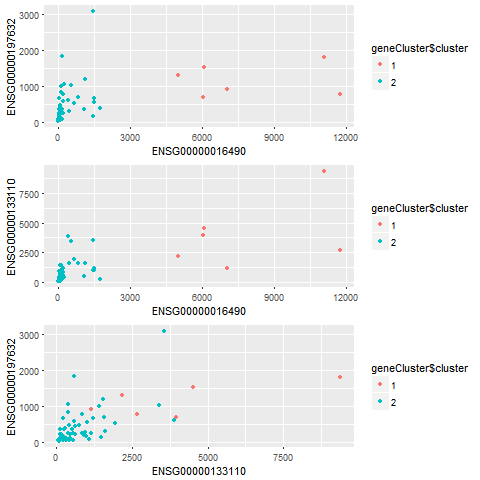
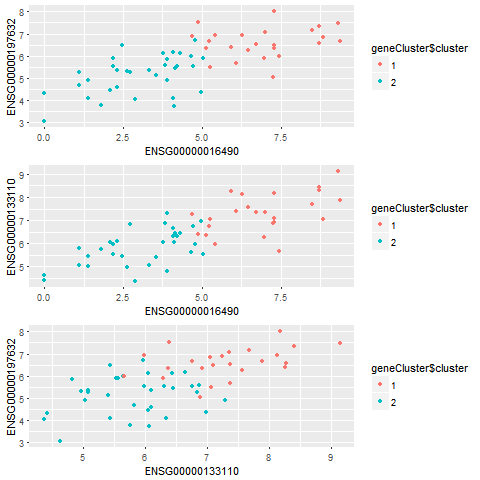
Everything has been re-clustered

diff --git a/Allison_Scripts/Cluster.md b/Allison_Scripts/Cluster.md
@@ -6,5 +6,5 @@ For defining the Th2-low and high subgroups, based on the expressions of periost
   
 This method gave us two fairly defined clusters, mostly due to very clear differences in expression of CLCA1 between the two clusters (see Figure 1).  The other two genes (periostin and serpin-B2) were less clear-cut, but even then, all samples clustered into the red cluster have higher-than-mean expression levels.  One thing that is immediately apparent is the large discrepancy between the number of samples we have in each cluster (6 in the "high - red" cluster, and 51 in the "low - blue" cluster).  To increase confidence in any results we find using this, then, we may perform resampling such as bootstrapping, as defense against false positives.  Another thing we could do, to make the boundaries of our two subgroups clearer (and again increase confidence), is to remove samples in the blue cluster that have higher expression levels of periostin, as that appears to be the gene in which definition between the two clusters are the most unclear (as well as having one clear outlier that has very high expression in periostin but very low in the other two genes).  These defined clusters can be used separately generate networks, which we can perform differential analysis on.  
 
-*Figure 1: k-means clustering results of all samples based on the normalized expression counts of CLCA1, serpin-B2, and periostin*
+**Figure 1: k-means clustering results of all samples based on the normalized expression counts of CLCA1, serpin-B2, and periostin**
 ![](k_means.png)<!-- -->
